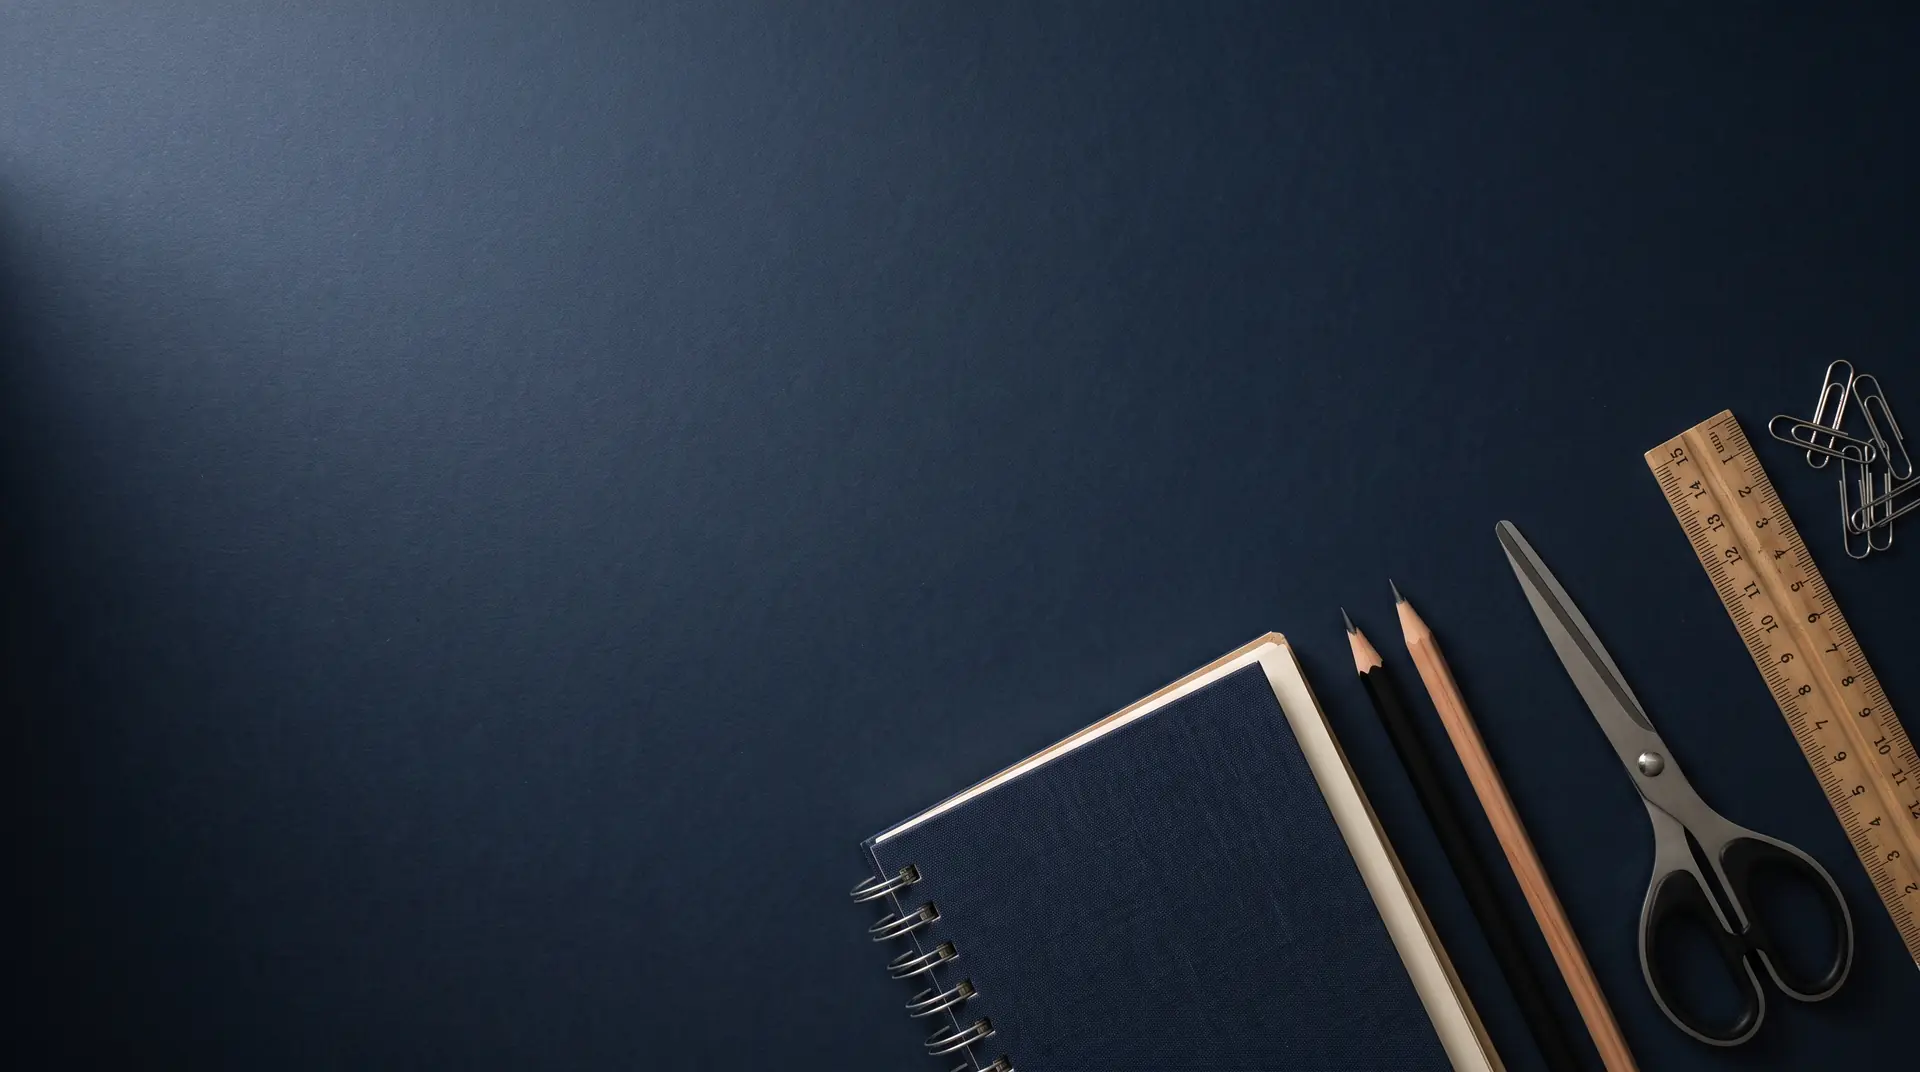
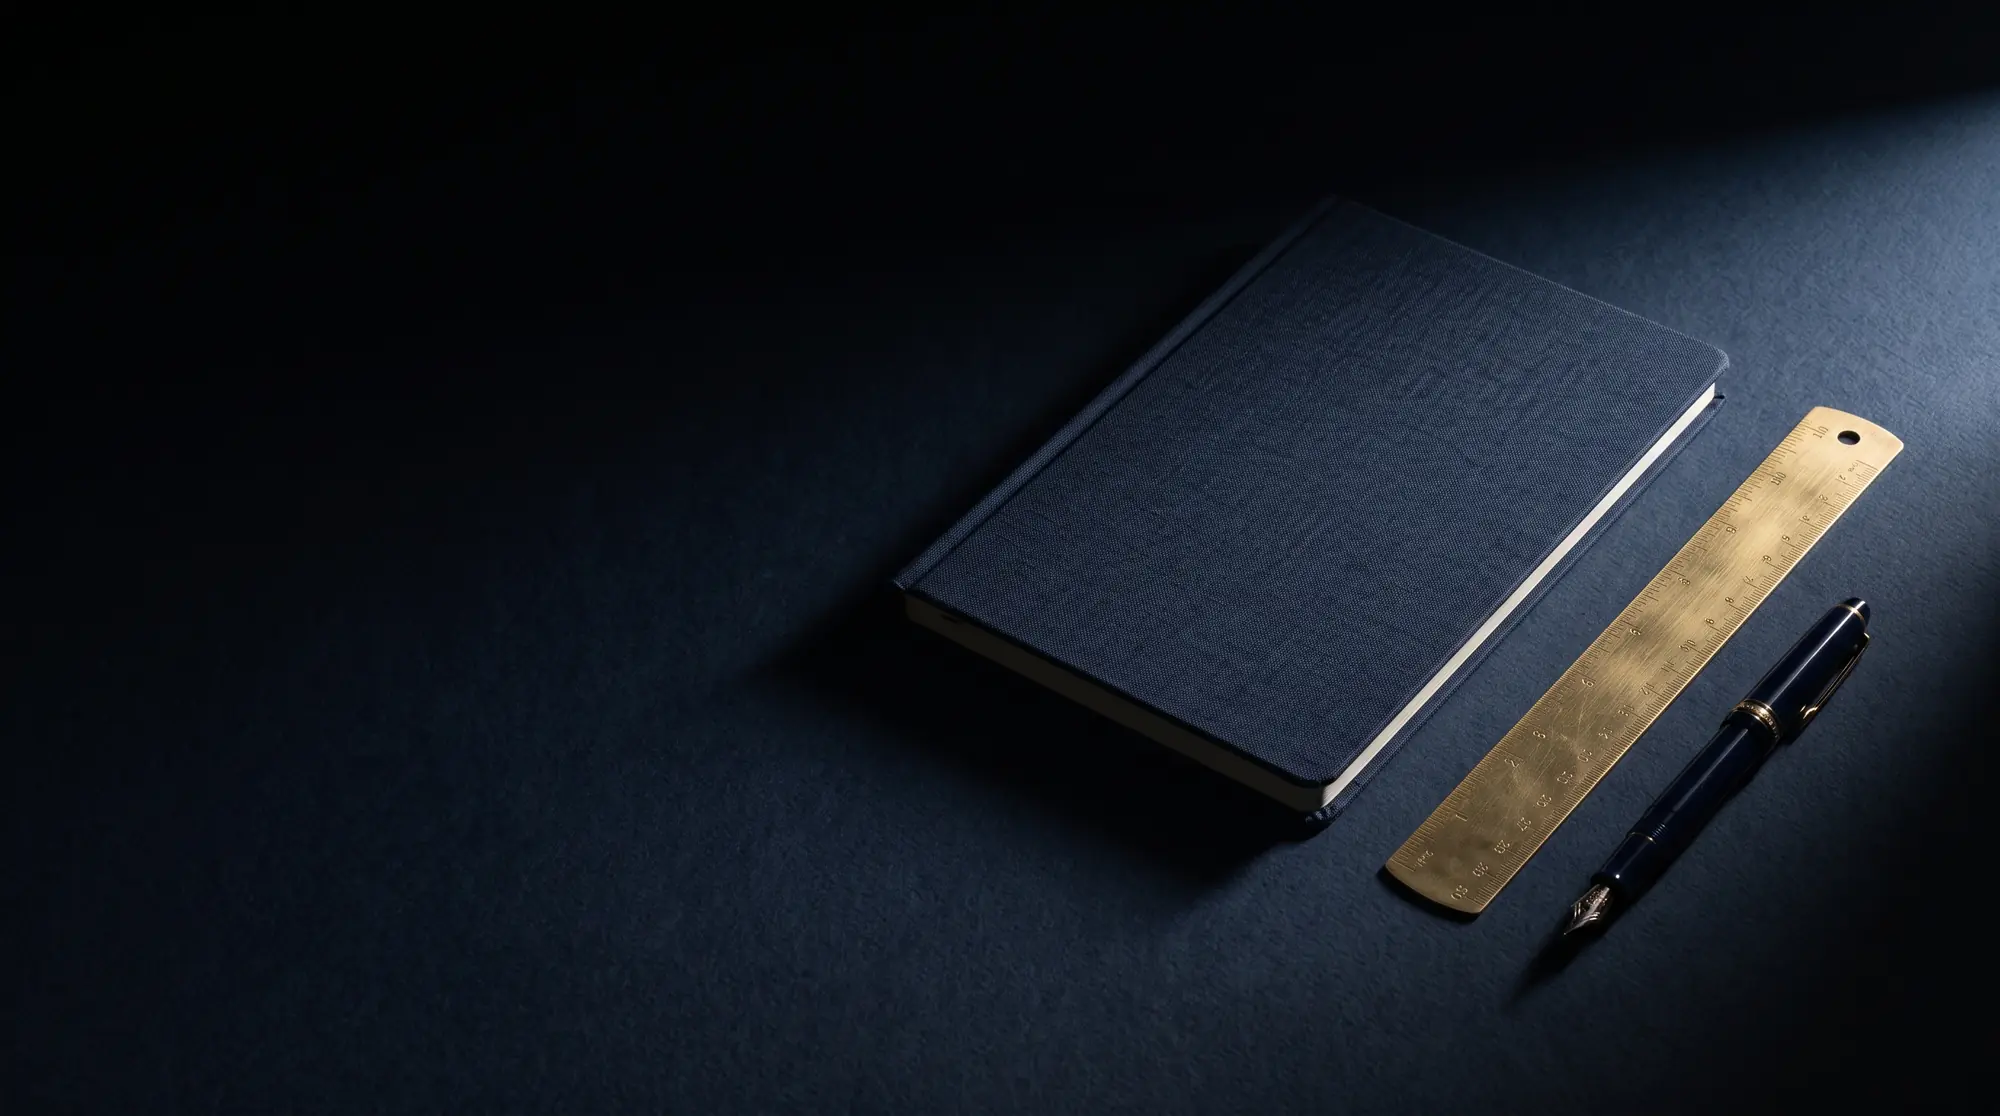
Premium pass on the Coming Soon page
Ran /premium-page-redesign against it. Page type: holding page, warm brand
traffic, one conversion goal — get the visitor to phone the store.

New photograph. The old one was a bright flat-lay that went hazy and
purple under a heavy scrim, which is why it read cheap. This is a dark
editorial still life — navy linen notebook, brass ruler, fountain pen,
single raking light, deep falloff — generated for this page. It carries
its own contrast: the brightest pixel behind the desktop copy is
rgb(41,50,67), so white sits at 12.87:1 before any overlay, and the
overlay is weighted away from the brass rather than flattening it.

Editorial serif headline. Instrument Serif, loaded alongside the site's
existing Instrument Sans — same foundry, so it pairs natively and keeps
the brand rather than importing a new voice. Held to two lines on
desktop.

Composition fixed. The logo was centred while everything else was left
aligned, and the right half of the screen was accidental dead space.
Now: a real header rule with the logo left and the number right, the
statement in a measured left column, details on a hairline grid, footer
on its own rule — and the right side is deliberately given to the
photograph.

Detailing: letterspaced micro-labels instead of headings, pill CTAs with
a mint glow on hover, a staggered 70ms entrance, tabular hours. "Call the
store" replaces a bare phone number as the primary CTA; the number stays
[…]

diff --git a/backend/resources/js/Pages/MaintenancePage.tsx b/backend/resources/js/Pages/MaintenancePage.tsx
@@ -1,4 +1,5 @@
 import { useEffect, useState } from 'react';
+import type { CSSProperties } from 'react';
 import { Head } from '@inertiajs/react';
 import bellevueLogo from '@/assets/bellevue-logo.webp';
 import comingSoonBg from '@/assets/coming-soon-bg.webp';
@@ -7,8 +8,7 @@ import { STORE_INFO } from '@/lib/constants';
 /**
  * MaintenancePage — served with a 503 to public visitors on bellevuegifts.com
  * while the online store is being built. The Freeport store is open and
- * trading, so this page's job is to hand a stranger the phone number, the
- * email address and the opening hours — not to apologise for a missing website.
+ * trading, so this page's job is to get a stranger to phone it.
  *
  * ONE background, one screen. Do not reintroduce banded sections.
  *
@@ -25,10 +25,14 @@ import { STORE_INFO } from '@/lib/constants';
  *    middleware's BYPASS_PREFIXES).
  *  - Focus rings must NOT use ring-ring: --color-ring is #00005D, the same
  *    navy as the ground, so the indicator would be invisible.
- *  - The photograph is decorative and sits under a flat navy scrim. Text is
- *    measured against the COMPOSITED result, using the brightest pixel of the
- *    visible crop: white 8.35:1 and white/85 body 6.56:1 at this scrim. Do not
- *    lighten it past /70, and re-measure if you swap the picture.
+ *  - CONTRAST, measured against the COMPOSITED result, not the raw image:
+ *      desktop — the copy sits over the picture's near-black left side
+ *        (brightest pixel rgb(41,50,67)), 12.87:1 for white before any overlay.
+ *      mobile  — the portrait crop puts the brass ruler behind the body copy,
+ *        so the overlay runs /95 → /85 → /60 top-to-bottom: white 11.5:1 and
+ *        white/70 body 7.3:1 over the brightest pixel in that crop.
+ *    Do not lighten the mobile mid-stop past /80 (body drops to 4.89:1, which
+ *    only just clears AA). Re-measure if you swap the picture.
  */
 
 const HOURS = [
@@ -42,10 +46,18 @@ const TEL_HREF = 'tel:+12423525555';
 const FOCUS =
   'focus-visible:outline-none focus-visible:ring-2 focus-visible:ring-brand-mint focus-visible:ring-offset-2 focus-visible:ring-offset-brand-blue';
 
+const LABEL = 'text-[11px] uppercase tracking-[0.16em] text-white/45';
+
 export default function MaintenancePage() {
   const [mounted, setMounted] = useState(false);
 
   useEffect(() => setMounted(true), []);
+
+  /** Staggered entrance — index 0 leads, each step 70ms behind. */
+  const rise = (step: number) =>
+    `motion-safe:transition-all motion-safe:duration-700 motion-safe:ease-out ${
+      mounted ? 'translate-y-0 opacity-100' : 'motion-safe:translate-y-2 motion-safe:opacity-0'
+    } motion-safe:[transition-delay:var(--d)]`;
 
   return (
     <>
@@ -63,7 +75,7 @@ export default function MaintenancePage() {
         <meta property="og:url" content="https://bellevuegifts.com/" />
       </Head>
 
-      <div className="relative isolate flex min-h-dvh flex-col bg-brand-blue">
+      <div className="relative isolate flex min-h-dvh flex-col overflow-hidden bg-[#050A1A]">
         {/* One background, full page. */}
         <img
           src={comingSoonBg}
@@ -71,86 +83,118 @@ export default function MaintenancePage() {
           aria-hidden="true"
           className="absolute inset-0 -z-20 h-full w-full object-cover object-right md:object-center"
         />
-        <div aria-hidden="true" className="absolute inset-0 -z-10 bg-brand-blue/[0.72]" />
+        {/* Atmosphere: darkens the copy side, leaves the brass highlight alone. */}
+        <div
+          aria-hidden="true"
+          className="absolute inset-0 -z-10 bg-gradient-to-b from-[#050A1A]/95 via-[#050A1A]/85 to-[#050A1A]/60 md:bg-gradient-to-r md:from-[#050A1A]/95 md:via-[#050A1A]/70 md:to-transparent"
+        />
 
-        <main className="mx-auto flex w-full max-w-2xl flex-1 flex-col justify-center px-6 py-14 md:px-8 md:py-20">
-          <img
-            src={bellevueLogo}
-            alt="Bellevue Gifts &amp; Supplies Ltd."
-            width={156}
-            height={44}
-            className="h-10 w-auto object-contain brightness-0 invert md:h-12"
-          />
-
-          <div
-            className={`motion-safe:transition-all motion-safe:duration-[240ms] motion-safe:ease-out ${
-              mounted ? 'opacity-100' : 'motion-safe:translate-y-0.5 motion-safe:opacity-0'
-            }`}
+        <div className="mx-auto flex w-full max-w-6xl flex-1 flex-col px-6 md:px-10">
+          {/* Header */}
+          <header
+            style={{ '--d': '0ms' } as CSSProperties}
+            className={`flex items-center justify-between gap-6 border-b border-white/10 py-6 md:py-7 ${rise(0)}`}
           >
-            <h1 className="mt-9 text-balance text-[2rem] font-bold leading-[1.05] tracking-[-0.02em] text-white md:text-[3rem] md:leading-[1.03]">
+            <img
+              src={bellevueLogo}
+              alt="Bellevue Gifts &amp; Supplies Ltd."
+              width={156}
+              height={44}
+              className="h-8 w-auto object-contain brightness-0 invert md:h-9"
+            />
+            <a
+              href={TEL_HREF}
+              className={`shrink-0 text-[13px] text-white/70 transition-colors duration-200 motion-reduce:transition-none hover:text-white sm:text-[14px] ${FOCUS}`}
+            >
+              <span className="sr-only">Call </span>
+              {STORE_INFO.phone}
+            </a>
+          </header>
+
+          {/* Statement */}
+          <main className="flex flex-1 flex-col justify-center py-12 md:max-w-[64%] md:py-16 lg:max-w-[60%]">
+            <p
+              style={{ '--d': '70ms' } as CSSProperties}
+              className={`${LABEL} ${rise(1)}`}
+            >
+              Freeport, Grand Bahama
+            </p>
+
+            <h1
+              style={{ '--d': '140ms' } as CSSProperties}
+              className={`mt-5 font-display text-[2.75rem] font-normal leading-[1.08] tracking-[-0.01em] text-white md:text-[2.9rem] md:leading-[1.08] lg:text-[3.35rem] lg:leading-[1.06] ${rise(2)}`}
+            >
               The store is open.
               <br />
               The website is what&rsquo;s coming.
             </h1>
-            <p className="mt-5 max-w-[46ch] text-[17px] leading-[1.55] text-white/85 md:text-[18px]">
+
+            <p
+              style={{ '--d': '210ms' } as CSSProperties}
+              className={`mt-6 max-w-[52ch] text-[17px] leading-[1.65] text-white/70 md:text-[18px] ${rise(3)}`}
+            >
               We&rsquo;ve supplied Freeport&rsquo;s schools, offices and homes for over twenty
               years, and our doors are open today. Online ordering is the part we&rsquo;re still
               building — until then, call and we&rsquo;ll tell you straight away whether it&rsquo;s
               in stock.
             </p>
-          </div>
 
-          <div className="mt-9 flex flex-col gap-3 sm:flex-row">
-            <a
-              href={TEL_HREF}
-              className={`inline-flex h-12 w-full items-center justify-center rounded-md bg-white font-medium text-brand-blue transition-colors duration-150 motion-reduce:transition-none hover:bg-brand-mint sm:w-auto sm:px-7 ${FOCUS}`}
+            <div
+              style={{ '--d': '280ms' } as CSSProperties}
+              className={`mt-9 flex flex-col gap-3 sm:flex-row sm:items-center ${rise(4)}`}
             >
-              <span className="sr-only">Call </span>
-              {STORE_INFO.phone}
-            </a>
-            <a
-              href={`mailto:${STORE_INFO.email}`}
-              className={`inline-flex h-12 w-full items-center justify-center rounded-md border border-white/60 font-medium text-white transition-colors duration-150 motion-reduce:transition-none hover:border-white hover:bg-white/10 sm:w-auto sm:px-7 ${FOCUS}`}
+              <a
+                href={TEL_HREF}
+                className={`group inline-flex h-[3.25rem] w-full items-center justify-center rounded-full bg-white px-8 text-[15px] font-medium text-[#050A1A] transition-all duration-200 motion-reduce:transition-none hover:bg-brand-mint hover:shadow-[0_0_40px_-8px_rgba(225,248,239,0.5)] sm:w-auto ${FOCUS}`}
+              >
+                Call the store
+                <span className="ml-2 text-[#050A1A]/60 transition-transform duration-200 group-hover:translate-x-0.5 motion-reduce:transition-none">
+                  &rarr;
+                </span>
+              </a>
+              <a
+                href={`mailto:${STORE_INFO.email}`}
+                className={`inline-flex h-[3.25rem] w-full items-center justify-center rounded-full border border-white/25 px-8 text-[15px] text-white/85 transition-colors duration-200 motion-reduce:transition-none hover:border-white/60 hover:text-white sm:w-auto ${FOCUS}`}
+              >
+                {STORE_INFO.email}
+              </a>
+            </div>
+
+            <dl
+              style={{ '--d': '350ms' } as CSSProperties}
+              className={`mt-12 grid gap-8 border-t border-white/10 pt-8 text-[15px] text-white/75 sm:grid-cols-2 ${rise(5)}`}
             >
-              <span className="sr-only">Email </span>
-              {STORE_INFO.email}
-            </a>
-          </div>
+              <div>
+                <dt className={LABEL}>Opening hours</dt>
+                <dd className="mt-3 max-w-[250px] space-y-1.5">
+                  {HOURS.map((row) => (
+                    <div key={row.days} className="flex justify-between gap-6 tabular-nums">
+                      <span>{row.days}</span>
+                      <span className="text-white/60">{row.time}</span>
+                    </div>
+                  ))}
+                </dd>
+              </div>
+              <div>
+                <dt className={LABEL}>Find us</dt>
+                <dd className="mt-3">{STORE_INFO.address}</dd>
+              </div>
+            </dl>
+          </main>
 
-          <dl className="mt-11 border-t border-white/20 pt-6 text-[15px] text-white/85 sm:flex sm:gap-12">
-            <div>
-              <dt className="text-[12px] uppercase tracking-[0.08em] text-white/60">
-                Opening hours
-              </dt>
-              <dd className="mt-2 max-w-[240px] space-y-1">
-                {HOURS.map((row) => (
-                  <div key={row.days} className="flex justify-between gap-6 tabular-nums">
-                    <span>{row.days}</span>
-                    <span>{row.time}</span>
-                  </div>
-                ))}
-              </dd>
-            </div>
-            <div className="mt-6 sm:mt-0">
-              <dt className="text-[12px] uppercase tracking-[0.08em] text-white/60">Find us</dt>
-              <dd className="mt-2">{STORE_INFO.address}</dd>
-            </div>
-          </dl>
-        </main>
-
-        <footer className="mx-auto w-full max-w-2xl px-6 pb-8 text-[13px] text-white/60 md:px-8">
-          <div className="flex flex-wrap items-center justify-between gap-x-6 gap-y-2">
+          {/* Footer */}
+          <footer className="flex flex-wrap items-center justify-between gap-x-6 gap-y-2 border-t border-white/10 py-6 text-[12px] text-white/40">
             <p>
               &copy; {new Date().getFullYear()} {STORE_INFO.name}
             </p>
             <a
               href="/pos/login"
-              className={`inline-flex min-h-11 items-center transition-colors duration-150 motion-reduce:transition-none hover:text-white ${FOCUS}`}
+              className={`inline-flex min-h-11 items-center transition-colors duration-200 motion-reduce:transition-none hover:text-white/80 ${FOCUS}`}
             >
               Staff sign in
             </a>
-          </div>
-        </footer>
+          </footer>
+        </div>
       </div>
     </>
   );

diff --git a/backend/resources/css/app.css b/backend/resources/css/app.css
@@ -11,6 +11,10 @@
     --font-sans: 'Instrument Sans', ui-sans-serif, system-ui, sans-serif, 'Apple Color Emoji', 'Segoe UI Emoji',
         'Segoe UI Symbol', 'Noto Color Emoji';
 
+    /* Editorial display face, paired with Instrument Sans by the same foundry.
+       Used for the Coming Soon headline. */
+    --font-display: 'Instrument Serif', ui-serif, Georgia, serif;
+
     --color-brand-navy: #00005D;
     --color-brand-blue: #00005D;
     --color-brand-mint: #E1F8EF;

diff --git a/backend/resources/views/app.blade.php b/backend/resources/views/app.blade.php
@@ -16,7 +16,7 @@
 
     <link rel="preconnect" href="https://fonts.googleapis.com">
     <link rel="preconnect" href="https://fonts.gstatic.com" crossorigin>
-    <link href="https://fonts.googleapis.com/css2?family=Instrument+Sans:ital,wght@0,400..700;1,400..700&display=swap"
+    <link href="https://fonts.googleapis.com/css2?family=Instrument+Sans:ital,wght@0,400..700;1,400..700&family=Instrument+Serif:ital@0;1&display=swap"
         rel="stylesheet">
 
     @viteReactRefresh
